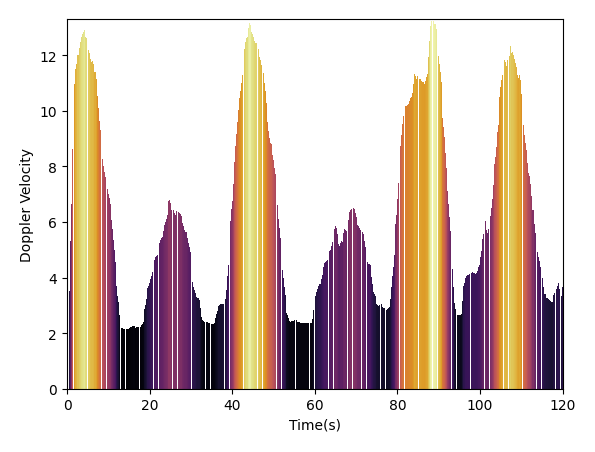
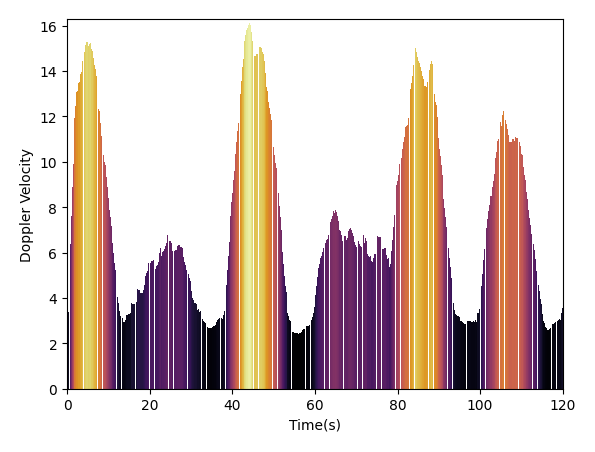
updated

Changed region(s): [[0.0605, 0.0619, 0.9681, 0.8673], [0.0605, 0.031, 0.0908, 0.1858], [0.0605, 0.2168, 0.0908, 0.2788]]

diff --git a/plot1806.py b/plot1806.py
@@ -5,7 +5,7 @@ import matplotlib.pyplot as plt
 import seaborn as sns
 
 # Define data URL
-url = "https://raw.githubusercontent.com/kotobuki09/Fab_OpenVLC/main/Dopper_1806.csv?token=GHSAT0AAAAAACCS5Q76SJ4K5Z2ZSAH2ITCAZEO3KDQ"
+url = "https://raw.githubusercontent.com/kotobuki09/Fab_OpenVLC/main/Dopper_1806.csv?token=GHSAT0AAAAAACCS5Q77UBTLQPXPWDPQSOIQZEO7CUQ"
 
 # Read the data into a DataFrame, handling missing values
 missing_values = ["NM"]
@@ -19,7 +19,7 @@ x = np.linspace(0, 120, 601)
 df['Time'] = x
 
 # Generate continuous color map using "cividis" from Matplotlib
-color_map = plt.cm.get_cmap("inferno")
+color_map = plt.cm.get_cmap("cividis")
 norm = plt.Normalize(df['Doppler'].min(), df['Doppler'].max())
 colors = color_map(norm(df['Doppler']))
 
@@ -37,4 +37,4 @@ plt.margins(y=0)
 
 # Show and save the plot
 plt.show()
-fig.savefig("Doppler062023v5.png", transparent=True, bbox_inches='tight', pad_inches=0.2)
+fig.savefig("Doppler062023v2.png", transparent=True, bbox_inches='tight', pad_inches=0.2)
